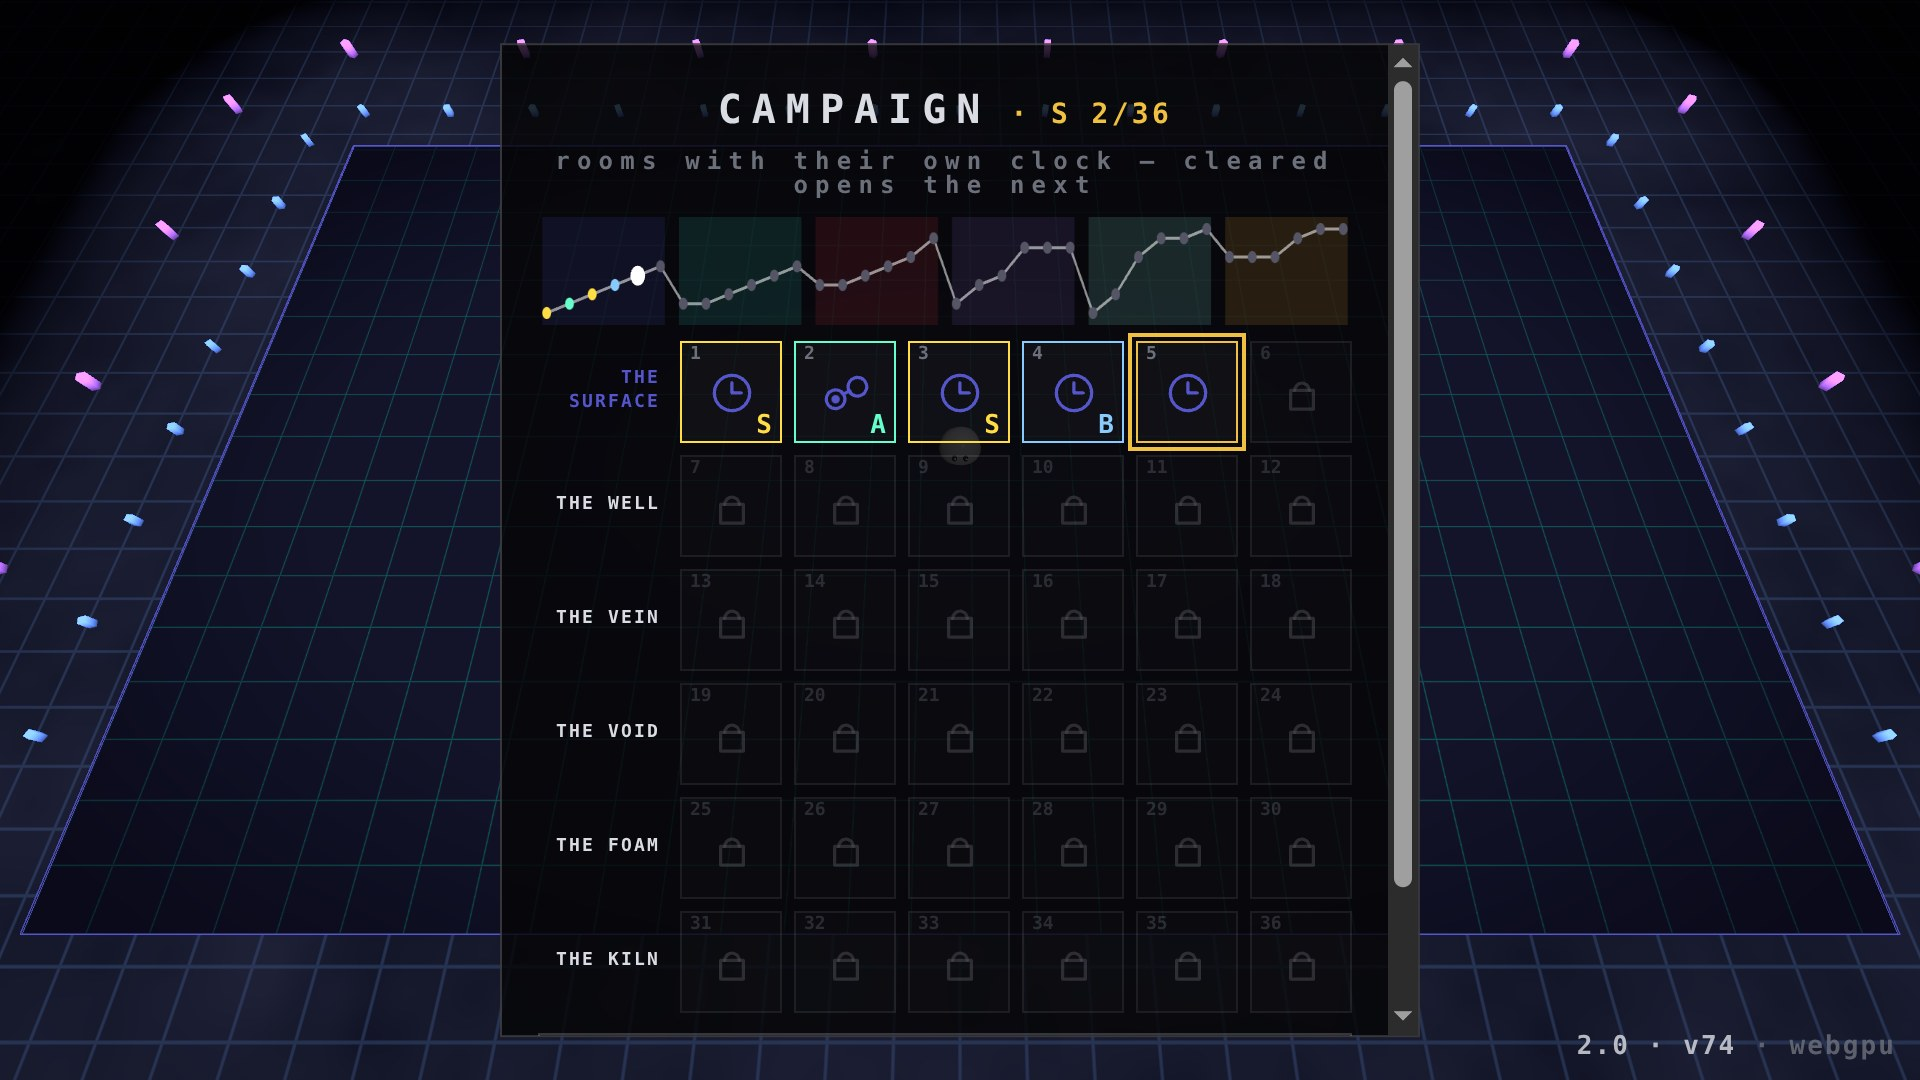
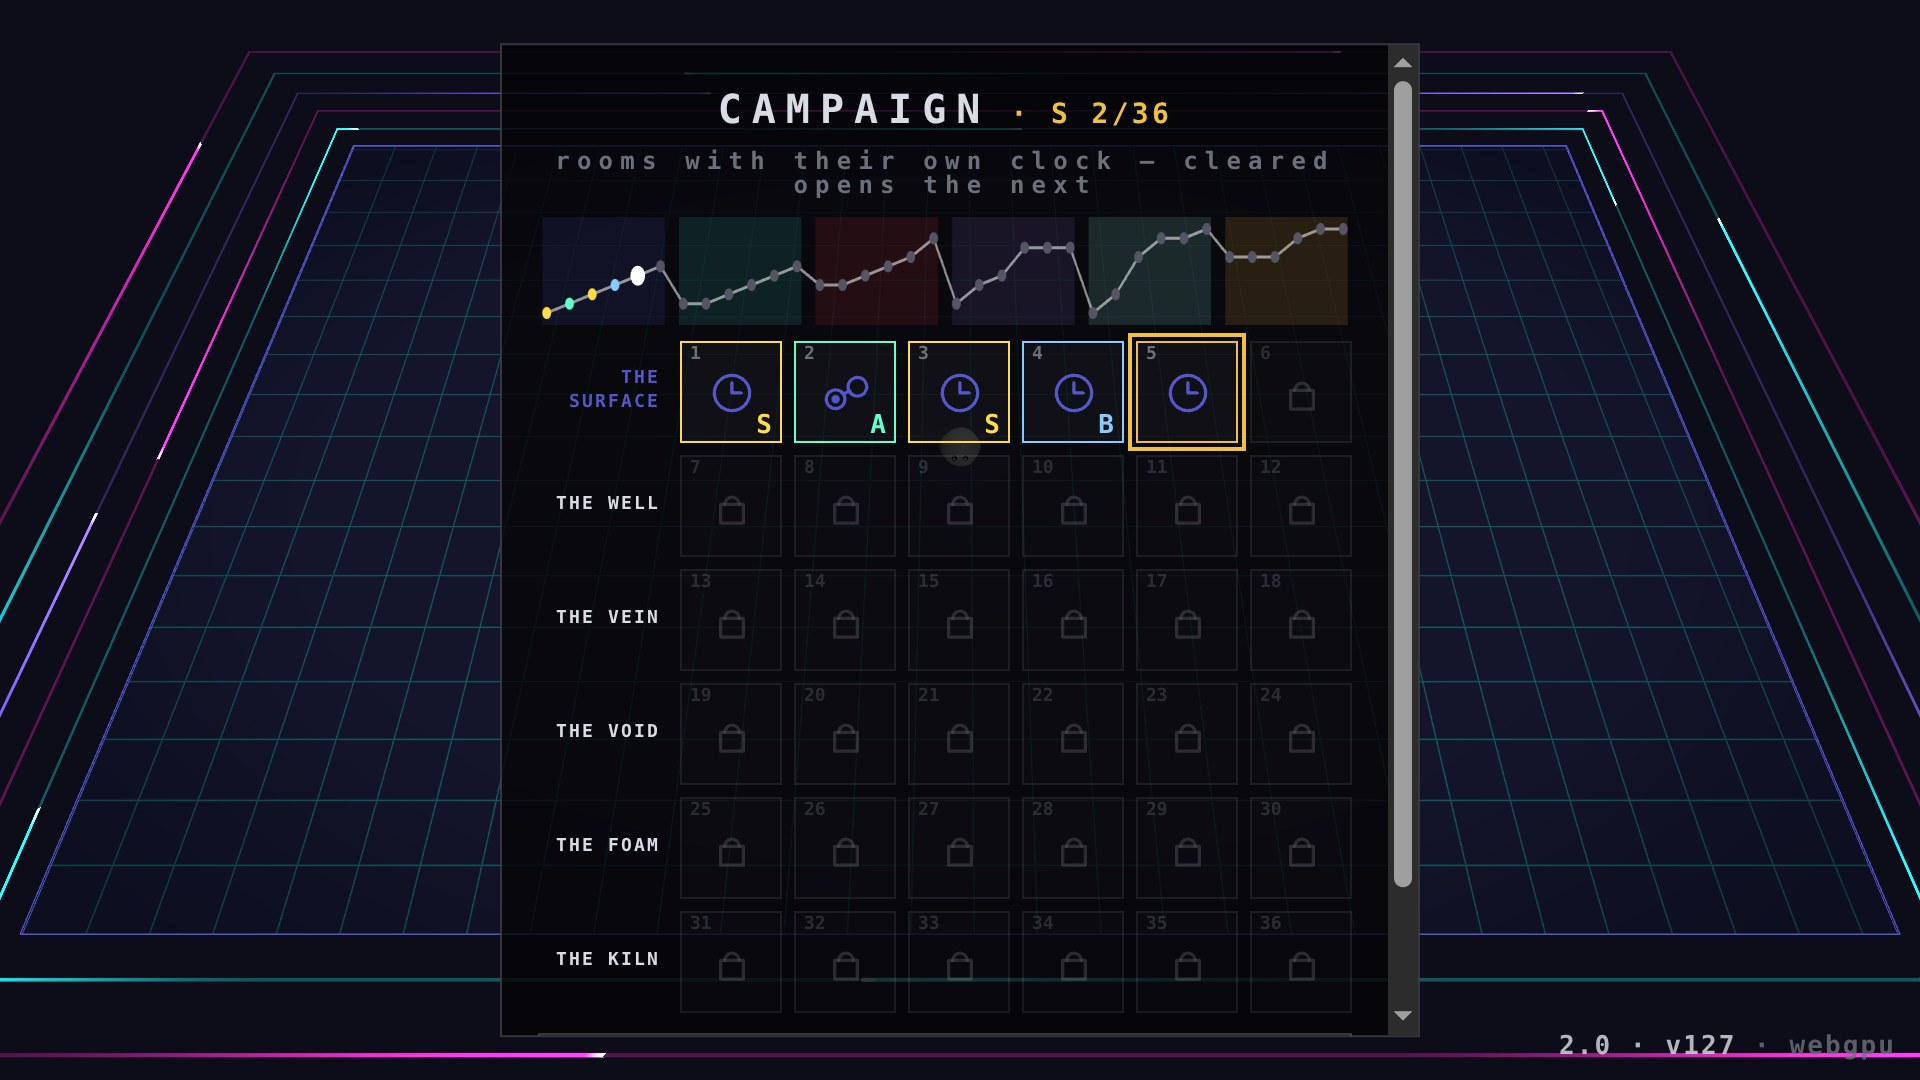
toko-drop-2.0: the itch kit at v127 — screenshots re-shot from the v127 zip, the four clips re-cut without the camera's shake
Claude-Session: https://claude.ai/code/session_01L6jYRh1dbxQDJ7Ym3GFUzu

Changed region(s): [[0.0, 0.0306, 1.0, 1.0], [0.625, 0.0306, 0.6562, 0.0611], [0.4688, 0.8861, 0.5, 0.9167]]

diff --git a/toko-drop-2.0-src/itch/README.md b/toko-drop-2.0-src/itch/README.md
@@ -1,6 +1,7 @@
 # Toko Drop 2.0 — the itch upload, ready
 
-- `toko-drop-2-v74-itch.zip`: the HTML5 build. It boots in an itch-style frame, plays ARCADE and a campaign room, and copies a PLAY RECORD with a tap (`scripts/itch-check.mjs`).
-- `screenshots/`: the nine arcade worlds, the campaign grid and a boss room, 1920 × 1080, from the zip itself.
+- `toko-drop-2-v127-itch.zip`: the HTML5 build. It boots in an itch-style frame, plays ARCADE and a campaign room, and copies a PLAY RECORD with a tap (`scripts/itch-check.mjs`).
+- `screenshots/`: the nine arcade worlds, the campaign grid and a boss room, 1920 × 1080, from the v127 zip itself (re-shot 2026-11-09).
+- `clips/`: GIFs of the five clips (`scripts/itch-clips.mjs`), re-cut at v127 without the camera's shake: the nine worlds, CURB KING, HARDCADE, a campaign room, and the 28-second progress trailer. The MP4s are rendered by the same script; itch takes a trailer as a YouTube or Vimeo link.
 - The cover is `../itch-cover/cover-core@2x.png` (the owner's pick).
 - The page text and the upload settings are `docs/ITCH.md` in the source bundle. Price and release status are the owner's.
